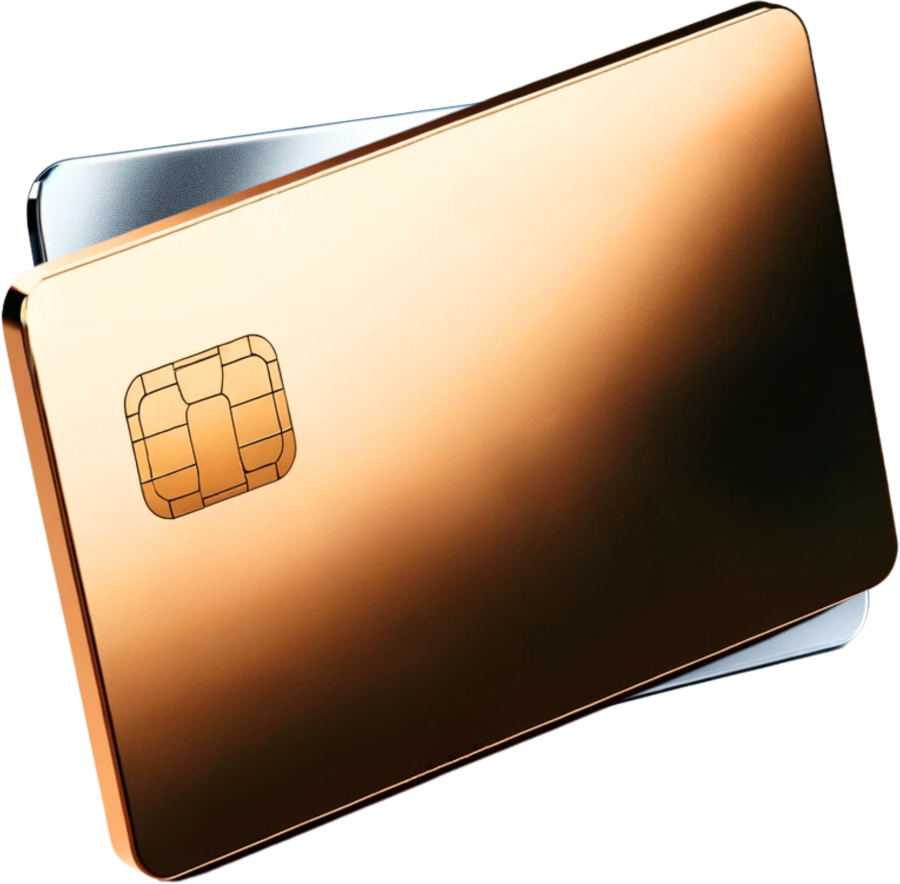
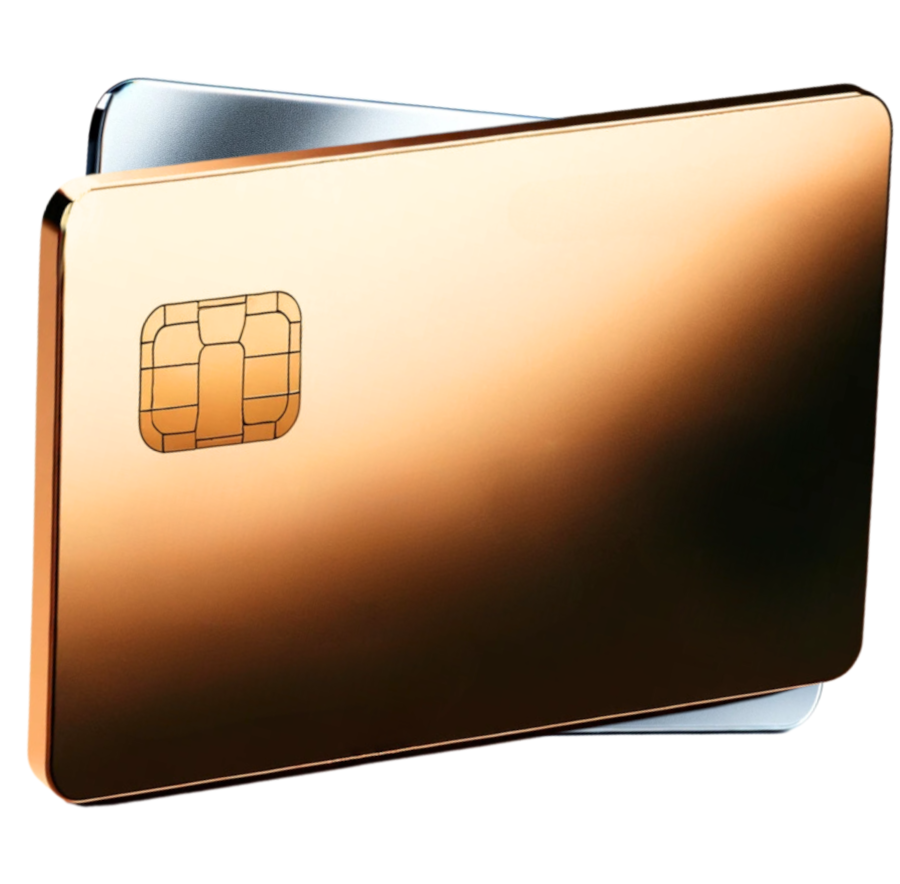
minor

diff --git a/sites/credit/src/blocks/components/card-detail.tsx b/sites/credit/src/blocks/components/card-detail.tsx
@@ -70,6 +70,13 @@ const CardDetailBlockComponent: React.FC<BlockComponentProps> = ({
       'sm:flex sm:flex-col sm:items-end sm:relative ', 
       outerClx
     )}>
+      <h4 className={cn('font-medium text-muted md:text-sm relative self-center ' + 
+        'landscape:text-sm portrait:mb-0  portrait:text-muted-2 ' + 
+        'text-xxs sm:mb-0 sm:text-muted-2',
+        labelClx)}
+      >
+        {capitalize(b.level)}&nbsp;Card
+      </h4>
       <ImageBlockComponent 
         block={{blockType: 'image',
           ...b.image,
@@ -83,13 +90,6 @@ const CardDetailBlockComponent: React.FC<BlockComponentProps> = ({
         agent={agent}
         className={imageClx} 
       />
-      <h4 className={cn('font-medium text-muted md:text-sm mr-4 relative self-end ' + 
-        'landscape:text-sm portrait:mb-0 portrait:mr-2 portrait:text-muted-2 ' + 
-        'text-xxs sm:mb-0 sm:mr-2 sm:text-muted-2',
-        labelClx)}
-      >
-        Lux {capitalize(b.level)}
-      </h4>
     </div>
   )
 

diff --git a/sites/credit/src/content/products/elite/index.tsx b/sites/credit/src/content/products/elite/index.tsx
@@ -2,7 +2,7 @@ import type { CardDetail } from '@/types'
 import type { ImageDef } from '@hanzo/ui/types'
 
 import MDX_Content from './detail.mdx'
-const imageUrl = '/assets/img/gold-and-silver-angled-tight-900x884.png'
+const imageUrl = '/assets/img/gold-and-silver-angled-tight-900x770.png'
 
 export default {
   level : 'elite',
@@ -13,7 +13,7 @@ export default {
   run: 100000,
   image: {
     src: imageUrl,
-    dim: {w: 900, h: 884} 
+    dim: {w: 900, h: 770} 
   } satisfies ImageDef,
   detail: <MDX_Content />,
   fees: {

diff --git a/sites/credit/src/content/products/sovereign/index.tsx b/sites/credit/src/content/products/sovereign/index.tsx
@@ -2,7 +2,7 @@ import type { CardDetail } from '@/types'
 import type { ImageDef } from '@hanzo/ui/types'
 
 import MDX_Content from './detail.mdx'
-const imageUrl = '/assets/img/titanium-two-sides-900x750.png'
+const imageUrl = '/assets/img/titanium-two-sides-900x517.png'
 
 export default {
   level : 'sovereign',
@@ -13,7 +13,7 @@ export default {
   run: 1000,
   image: {
     src: imageUrl,
-    dim: {w: 900, h: 750} 
+    dim: {w: 900, h: 517} 
   } satisfies ImageDef,
   detail: <MDX_Content />,
   fees: {
